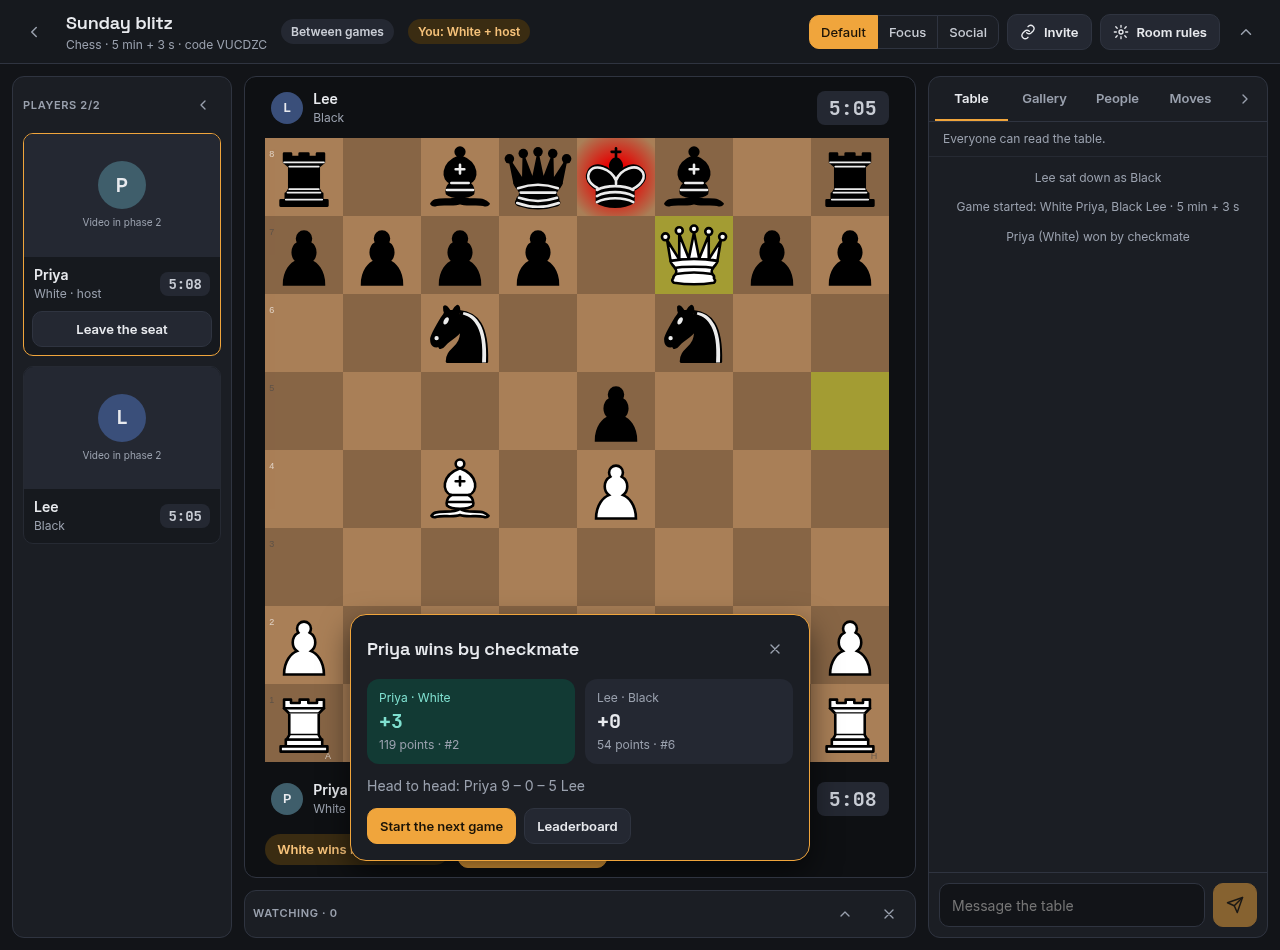
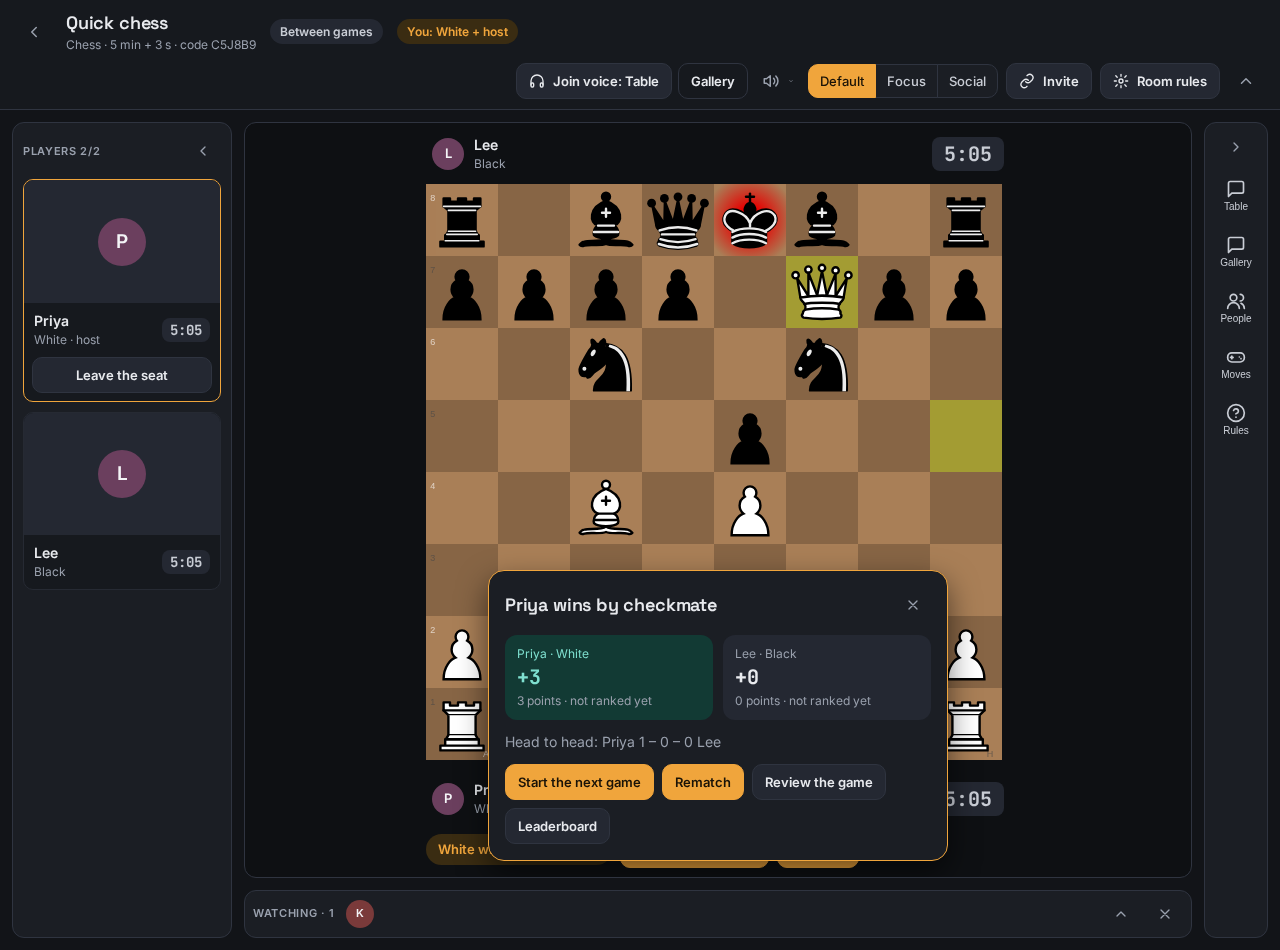
Playhall: new screenshots of the lobby, result, replay, rules, room rules, private room, stats and settings

diff --git a/playhall/README.md b/playhall/README.md
@@ -28,7 +28,7 @@ Most online games give you a match against a stranger. Playhall is closer to a g
 
 Anyone with an account can open a room, pick the game and a time control, and decide whether it shows in the lobby or only to people with the invite link. The lobby shows each room's game, who's playing, how many are watching, and whether there's a free seat.
 
-![The lobby: rooms playing chess, checkers, Snakes and Ladders, Ludo and Sea Battle, and the form for a new room listing every game](images/02-lobby.png)
+![The lobby: rooms in play and rooms waiting for players, each with its game, host and seats, and the form for a new room listing every game](images/02-lobby.png)
 
 Inside a room there are three roles. The **host** runs it, and can play too. **Players** are whoever is sitting in the game's seats. Everyone else is **watching**. A watcher who wants to play asks for a seat and joins a queue; when a game ends, the host's rule decides who plays next: the same players, the winner stays and the next in the queue takes the other seat, or both rotate out.
 
@@ -56,7 +56,7 @@ Watchers talking to players spoils games like chess, so every room has two chats
 
 When a game ends, the room shows what it meant: the points each player won, their new totals and rank, and their record against each other.
 
-![A finished game: Priya has mated Lee in four moves, and the card shows +3 and +0, their totals and ranks, and their head-to-head](images/04-result.png)
+![A finished game: Priya has mated Lee in four moves, and the card shows +3 and +0, where they stand, their head-to-head, and the buttons for the next game, a rematch, the replay and the leaderboard](images/04-result.png)
 
 *A four-move mate. Priya takes 3 points and moves to 119, second in the all-time table; she leads Lee 9 to 5 over their games together.*
 
@@ -177,11 +177,11 @@ Everyone has a **Settings** page. Ahead of voice and video, it's where you choos
 
 Whoever runs Playhall gets a separate **platform settings** page, for things that apply to everyone: whether people can sign up or join as guests, whether voice, video and transcripts are allowed, the defaults for new rooms, the HTTPS certificate, other admins, and closing any room. A fresh install comes with an admin account whose password has to be changed at its first sign-in, before anything else opens.
 
-<img src="images/24-settings.png" width="62%" alt="The Settings page: a microphone chosen from a list with its level meter moving, speakers with a Play a test sound button, a camera preview, and the theme">
+<img src="images/24-settings.png" width="62%" alt="The Settings page: the microphone with its level meter, speakers with a Play a test sound button, the camera with a Preview button, and the table sounds: on or off, the volume, sounds while watching, and a test">
 
 <p>
 <img src="images/07-phone.png" width="300" alt="The room on a phone: the full-width board, the players, and the watchers' strip with the button to ask for a seat">
-<img src="images/22-light-lobby.png" width="62%" alt="The lobby in the light theme, with rooms for Hold'em, Colour Clash, Blackjack, Sea Battle and chess">
+<img src="images/22-light-lobby.png" width="62%" alt="The lobby in the light theme">
 </p>
 
 ---
@@ -212,7 +212,7 @@ Each player has a page of their own: points, games played, points per game, win 
 
 Finished games of chess, checkers and Four in a Row can be **replayed** move by move, from a player's recent games or from the card at the end of the game.
 
-![A chess replay: the board five moves in, with buttons to go to the first move, back, next or last, and a slider](images/21-replay.png)
+![A chess replay of Priya's four-move win: the final position, with buttons to go to the first move, back, next or last, and a slider showing move 7 of 7](images/21-replay.png)
 
 ---
 
